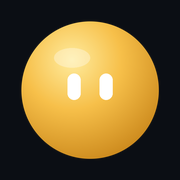
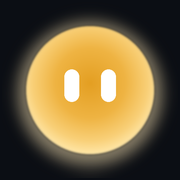
Mascotte : rendu plat et doux comme le modèle (plus de reflet 3D), halo discret, yeux plus fins
Claude-Session: https://claude.ai/code/session_01AT7rn9QSeKipCGAkHZqtFR

diff --git a/site/index.html b/site/index.html
@@ -71,7 +71,7 @@
   </div>
   <div class="scene">
     <div class="scene-bg"></div>
-    <span class="odin float" id="heroOdin" aria-hidden="true"><svg viewBox="0 0 120 120" xmlns="http://www.w3.org/2000/svg" focusable="false"><defs><radialGradient id="odinBody" cx="38%" cy="30%" r="78%"><stop offset="0" stop-color="#FFEC9E"/><stop offset=".42" stop-color="#F7C04A"/><stop offset="1" stop-color="#C47F14"/></radialGradient><radialGradient id="odinHalo" cx="50%" cy="50%" r="50%"><stop offset=".55" stop-color="#F2B544" stop-opacity=".28"/><stop offset="1" stop-color="#F2B544" stop-opacity="0"/></radialGradient></defs><circle class="halo" cx="60" cy="60" r="60" fill="url(#odinHalo)"/><g class="body"><circle cx="60" cy="60" r="44" fill="url(#odinBody)"/><ellipse cx="45" cy="34" rx="15" ry="8" fill="#fff" opacity=".32"/><g class="eyes"><g class="brow l"><rect class="eye l" x="42" y="47" width="10.5" height="21" rx="5.25" fill="#fff"/></g><g class="brow r"><rect class="eye r" x="67.5" y="47" width="10.5" height="21" rx="5.25" fill="#fff"/></g></g></g></svg></span>
+    <span class="odin float" id="heroOdin" aria-hidden="true"><svg viewBox="0 0 120 120" xmlns="http://www.w3.org/2000/svg" focusable="false"><defs><radialGradient id="odinBody" cx="50%" cy="46%" r="54%"><stop offset="0" stop-color="#E19B1F"/><stop offset=".5" stop-color="#EDB03D"/><stop offset=".82" stop-color="#F8CC70"/><stop offset="1" stop-color="#FFE3A0"/></radialGradient><radialGradient id="odinHalo" cx="50%" cy="50%" r="50%"><stop offset=".8" stop-color="#FFE9B8" stop-opacity=".3"/><stop offset=".92" stop-color="#FFE9B8" stop-opacity=".1"/><stop offset="1" stop-color="#FFE9B8" stop-opacity="0"/></radialGradient><filter id="odinSoft" x="-10%" y="-10%" width="120%" height="120%"><feGaussianBlur stdDeviation=".8"/></filter></defs><circle class="halo" cx="61" cy="62" r="52" fill="url(#odinHalo)"/><g class="body"><circle cx="60" cy="60" r="44" fill="url(#odinBody)" filter="url(#odinSoft)"/><g class="eyes"><g class="brow l"><rect class="eye l" x="43" y="45" width="9" height="22" rx="4.5" fill="#fff"/></g><g class="brow r"><rect class="eye r" x="68" y="45" width="9" height="22" rx="4.5" fill="#fff"/></g></g></g></svg></span>
     <div class="term" role="img" aria-label="Démonstration : Odin lit une facture reçue sur Telegram, la range, crée une ligne dans un tableur et programme un rappel, en signalant ce qu'il a décidé seul.">
       <div class="term-bar"><i></i><i></i><i></i><span>odin · discussion</span></div>
       <div class="term-body" id="term">
@@ -167,7 +167,7 @@
 </div></section>
 
 <section class="wrap cta-band" id="demarrer">
-  <span class="odin float rv" aria-hidden="true"><svg viewBox="0 0 120 120" xmlns="http://www.w3.org/2000/svg" focusable="false"><defs><radialGradient id="odinBody" cx="38%" cy="30%" r="78%"><stop offset="0" stop-color="#FFEC9E"/><stop offset=".42" stop-color="#F7C04A"/><stop offset="1" stop-color="#C47F14"/></radialGradient><radialGradient id="odinHalo" cx="50%" cy="50%" r="50%"><stop offset=".55" stop-color="#F2B544" stop-opacity=".28"/><stop offset="1" stop-color="#F2B544" stop-opacity="0"/></radialGradient></defs><circle class="halo" cx="60" cy="60" r="60" fill="url(#odinHalo)"/><g class="body"><circle cx="60" cy="60" r="44" fill="url(#odinBody)"/><ellipse cx="45" cy="34" rx="15" ry="8" fill="#fff" opacity=".32"/><g class="eyes"><g class="brow l"><rect class="eye l" x="42" y="47" width="10.5" height="21" rx="5.25" fill="#fff"/></g><g class="brow r"><rect class="eye r" x="67.5" y="47" width="10.5" height="21" rx="5.25" fill="#fff"/></g></g></g></svg></span>
+  <span class="odin float rv" aria-hidden="true"><svg viewBox="0 0 120 120" xmlns="http://www.w3.org/2000/svg" focusable="false"><defs><radialGradient id="odinBody" cx="50%" cy="46%" r="54%"><stop offset="0" stop-color="#E19B1F"/><stop offset=".5" stop-color="#EDB03D"/><stop offset=".82" stop-color="#F8CC70"/><stop offset="1" stop-color="#FFE3A0"/></radialGradient><radialGradient id="odinHalo" cx="50%" cy="50%" r="50%"><stop offset=".8" stop-color="#FFE9B8" stop-opacity=".3"/><stop offset=".92" stop-color="#FFE9B8" stop-opacity=".1"/><stop offset="1" stop-color="#FFE9B8" stop-opacity="0"/></radialGradient><filter id="odinSoft" x="-10%" y="-10%" width="120%" height="120%"><feGaussianBlur stdDeviation=".8"/></filter></defs><circle class="halo" cx="61" cy="62" r="52" fill="url(#odinHalo)"/><g class="body"><circle cx="60" cy="60" r="44" fill="url(#odinBody)" filter="url(#odinSoft)"/><g class="eyes"><g class="brow l"><rect class="eye l" x="43" y="45" width="9" height="22" rx="4.5" fill="#fff"/></g><g class="brow r"><rect class="eye r" x="68" y="45" width="9" height="22" rx="4.5" fill="#fff"/></g></g></g></svg></span>
   <p class="eyebrow">Démarrer</p>
   <h2>Cinq minutes. Une commande, trois questions, et Odin est à toi.</h2>
   <p class="lead">Gratuit, open source, sans inscription. Fonctionne 100 % hors ligne avec un modèle installé sur ta machine.</p>

diff --git a/site/guide.html b/site/guide.html
@@ -59,7 +59,7 @@
 
 <main id="contenu">
 <div class="wrap page-head">
-  <span class="odin" aria-hidden="true"><svg viewBox="0 0 120 120" xmlns="http://www.w3.org/2000/svg" focusable="false"><defs><radialGradient id="odinBody" cx="38%" cy="30%" r="78%"><stop offset="0" stop-color="#FFEC9E"/><stop offset=".42" stop-color="#F7C04A"/><stop offset="1" stop-color="#C47F14"/></radialGradient><radialGradient id="odinHalo" cx="50%" cy="50%" r="50%"><stop offset=".55" stop-color="#F2B544" stop-opacity=".28"/><stop offset="1" stop-color="#F2B544" stop-opacity="0"/></radialGradient></defs><circle class="halo" cx="60" cy="60" r="60" fill="url(#odinHalo)"/><g class="body"><circle cx="60" cy="60" r="44" fill="url(#odinBody)"/><ellipse cx="45" cy="34" rx="15" ry="8" fill="#fff" opacity=".32"/><g class="eyes"><g class="brow l"><rect class="eye l" x="42" y="47" width="10.5" height="21" rx="5.25" fill="#fff"/></g><g class="brow r"><rect class="eye r" x="67.5" y="47" width="10.5" height="21" rx="5.25" fill="#fff"/></g></g></g></svg></span>
+  <span class="odin" aria-hidden="true"><svg viewBox="0 0 120 120" xmlns="http://www.w3.org/2000/svg" focusable="false"><defs><radialGradient id="odinBody" cx="50%" cy="46%" r="54%"><stop offset="0" stop-color="#E19B1F"/><stop offset=".5" stop-color="#EDB03D"/><stop offset=".82" stop-color="#F8CC70"/><stop offset="1" stop-color="#FFE3A0"/></radialGradient><radialGradient id="odinHalo" cx="50%" cy="50%" r="50%"><stop offset=".8" stop-color="#FFE9B8" stop-opacity=".3"/><stop offset=".92" stop-color="#FFE9B8" stop-opacity=".1"/><stop offset="1" stop-color="#FFE9B8" stop-opacity="0"/></radialGradient><filter id="odinSoft" x="-10%" y="-10%" width="120%" height="120%"><feGaussianBlur stdDeviation=".8"/></filter></defs><circle class="halo" cx="61" cy="62" r="52" fill="url(#odinHalo)"/><g class="body"><circle cx="60" cy="60" r="44" fill="url(#odinBody)" filter="url(#odinSoft)"/><g class="eyes"><g class="brow l"><rect class="eye l" x="43" y="45" width="9" height="22" rx="4.5" fill="#fff"/></g><g class="brow r"><rect class="eye r" x="68" y="45" width="9" height="22" rx="4.5" fill="#fff"/></g></g></g></svg></span>
   <p class="eyebrow">Guide d'utilisation</p>
   <h1>Tout ce qu'il faut savoir pour se servir d'Odin.</h1>
   <nav class="toc" aria-label="Sommaire"><a href="#reglages">Réglages</a><a href="#quotidien">Au quotidien</a><a href="#telegram">Telegram</a><a href="#voix">Voix</a><a href="#documents">Documents</a><a href="#taches">Tâches et rappels</a><a href="#memoire">Mémoire et compétences</a><a href="#reseau">Réseau</a><a href="#commandes">Commandes</a><a href="#depannage">Dépannage</a></nav>

diff --git a/src/web/ui.html b/src/web/ui.html
@@ -173,7 +173,7 @@ ol.steps{margin:0;padding-left:20px;color:var(--muted);font-size:14px}
 </head>
 <body>
 <div id="login" class="login" hidden>
-  <span class="odin" aria-hidden="true" style="width:72px;height:72px;margin:0 auto 6px;display:block"><svg viewBox="0 0 120 120" xmlns="http://www.w3.org/2000/svg" focusable="false"><defs><radialGradient id="odinBody" cx="38%" cy="30%" r="78%"><stop offset="0" stop-color="#FFEC9E"/><stop offset=".42" stop-color="#F7C04A"/><stop offset="1" stop-color="#C47F14"/></radialGradient><radialGradient id="odinHalo" cx="50%" cy="50%" r="50%"><stop offset=".55" stop-color="#F2B544" stop-opacity=".28"/><stop offset="1" stop-color="#F2B544" stop-opacity="0"/></radialGradient></defs><circle class="halo" cx="60" cy="60" r="60" fill="url(#odinHalo)"/><g class="body"><circle cx="60" cy="60" r="44" fill="url(#odinBody)"/><ellipse cx="45" cy="34" rx="15" ry="8" fill="#fff" opacity=".32"/><g class="eyes"><g class="brow l"><rect class="eye l" x="42" y="47" width="10.5" height="21" rx="5.25" fill="#fff"/></g><g class="brow r"><rect class="eye r" x="67.5" y="47" width="10.5" height="21" rx="5.25" fill="#fff"/></g></g></g></svg></span>
+  <span class="odin" aria-hidden="true" style="width:72px;height:72px;margin:0 auto 6px;display:block"><svg viewBox="0 0 120 120" xmlns="http://www.w3.org/2000/svg" focusable="false"><defs><radialGradient id="odinBody" cx="50%" cy="46%" r="54%"><stop offset="0" stop-color="#E19B1F"/><stop offset=".5" stop-color="#EDB03D"/><stop offset=".82" stop-color="#F8CC70"/><stop offset="1" stop-color="#FFE3A0"/></radialGradient><radialGradient id="odinHalo" cx="50%" cy="50%" r="50%"><stop offset=".8" stop-color="#FFE9B8" stop-opacity=".3"/><stop offset=".92" stop-color="#FFE9B8" stop-opacity=".1"/><stop offset="1" stop-color="#FFE9B8" stop-opacity="0"/></radialGradient><filter id="odinSoft" x="-10%" y="-10%" width="120%" height="120%"><feGaussianBlur stdDeviation=".8"/></filter></defs><circle class="halo" cx="61" cy="62" r="52" fill="url(#odinHalo)"/><g class="body"><circle cx="60" cy="60" r="44" fill="url(#odinBody)" filter="url(#odinSoft)"/><g class="eyes"><g class="brow l"><rect class="eye l" x="43" y="45" width="9" height="22" rx="4.5" fill="#fff"/></g><g class="brow r"><rect class="eye r" x="68" y="45" width="9" height="22" rx="4.5" fill="#fff"/></g></g></g></svg></span>
   <div class="brand"><span class="rune" aria-hidden="true">ᛟ</span>ODIN</div>
   <p class="sub">Colle le jeton affiché par « odin web » (ou contenu du fichier ~/.odin/web-token).</p>
   <form id="loginForm" method="get" action="/" style="display:flex;flex-direction:column;gap:10px">

diff --git a/site/autonomie.html b/site/autonomie.html
@@ -59,7 +59,7 @@
 
 <main id="contenu">
 <div class="wrap page-head">
-  <span class="odin" aria-hidden="true"><svg viewBox="0 0 120 120" xmlns="http://www.w3.org/2000/svg" focusable="false"><defs><radialGradient id="odinBody" cx="38%" cy="30%" r="78%"><stop offset="0" stop-color="#FFEC9E"/><stop offset=".42" stop-color="#F7C04A"/><stop offset="1" stop-color="#C47F14"/></radialGradient><radialGradient id="odinHalo" cx="50%" cy="50%" r="50%"><stop offset=".55" stop-color="#F2B544" stop-opacity=".28"/><stop offset="1" stop-color="#F2B544" stop-opacity="0"/></radialGradient></defs><circle class="halo" cx="60" cy="60" r="60" fill="url(#odinHalo)"/><g class="body"><circle cx="60" cy="60" r="44" fill="url(#odinBody)"/><ellipse cx="45" cy="34" rx="15" ry="8" fill="#fff" opacity=".32"/><g class="eyes"><g class="brow l"><rect class="eye l" x="42" y="47" width="10.5" height="21" rx="5.25" fill="#fff"/></g><g class="brow r"><rect class="eye r" x="67.5" y="47" width="10.5" height="21" rx="5.25" fill="#fff"/></g></g></g></svg></span>
+  <span class="odin" aria-hidden="true"><svg viewBox="0 0 120 120" xmlns="http://www.w3.org/2000/svg" focusable="false"><defs><radialGradient id="odinBody" cx="50%" cy="46%" r="54%"><stop offset="0" stop-color="#E19B1F"/><stop offset=".5" stop-color="#EDB03D"/><stop offset=".82" stop-color="#F8CC70"/><stop offset="1" stop-color="#FFE3A0"/></radialGradient><radialGradient id="odinHalo" cx="50%" cy="50%" r="50%"><stop offset=".8" stop-color="#FFE9B8" stop-opacity=".3"/><stop offset=".92" stop-color="#FFE9B8" stop-opacity=".1"/><stop offset="1" stop-color="#FFE9B8" stop-opacity="0"/></radialGradient><filter id="odinSoft" x="-10%" y="-10%" width="120%" height="120%"><feGaussianBlur stdDeviation=".8"/></filter></defs><circle class="halo" cx="61" cy="62" r="52" fill="url(#odinHalo)"/><g class="body"><circle cx="60" cy="60" r="44" fill="url(#odinBody)" filter="url(#odinSoft)"/><g class="eyes"><g class="brow l"><rect class="eye l" x="43" y="45" width="9" height="22" rx="4.5" fill="#fff"/></g><g class="brow r"><rect class="eye r" x="68" y="45" width="9" height="22" rx="4.5" fill="#fff"/></g></g></g></svg></span>
   <p class="eyebrow">Autonomie</p>
   <h1>Quatre niveaux de confiance, une règle écrite dans le code.</h1>
   <p class="lead">Avant chaque action qui écrit, exécute ou envoie, Mímir, le module de décision d'Odin, répond à sept questions simples. Une table de vérité en déduit une gravité. Ensuite, c'est ton niveau d'autonomie qui décide si Odin agit, te demande, ou refuse.</p>

diff --git a/site/confidentialite.html b/site/confidentialite.html
@@ -59,7 +59,7 @@
 
 <main id="contenu">
 <div class="wrap page-head narrow">
-  <span class="odin" aria-hidden="true"><svg viewBox="0 0 120 120" xmlns="http://www.w3.org/2000/svg" focusable="false"><defs><radialGradient id="odinBody" cx="38%" cy="30%" r="78%"><stop offset="0" stop-color="#FFEC9E"/><stop offset=".42" stop-color="#F7C04A"/><stop offset="1" stop-color="#C47F14"/></radialGradient><radialGradient id="odinHalo" cx="50%" cy="50%" r="50%"><stop offset=".55" stop-color="#F2B544" stop-opacity=".28"/><stop offset="1" stop-color="#F2B544" stop-opacity="0"/></radialGradient></defs><circle class="halo" cx="60" cy="60" r="60" fill="url(#odinHalo)"/><g class="body"><circle cx="60" cy="60" r="44" fill="url(#odinBody)"/><ellipse cx="45" cy="34" rx="15" ry="8" fill="#fff" opacity=".32"/><g class="eyes"><g class="brow l"><rect class="eye l" x="42" y="47" width="10.5" height="21" rx="5.25" fill="#fff"/></g><g class="brow r"><rect class="eye r" x="67.5" y="47" width="10.5" height="21" rx="5.25" fill="#fff"/></g></g></g></svg></span>
+  <span class="odin" aria-hidden="true"><svg viewBox="0 0 120 120" xmlns="http://www.w3.org/2000/svg" focusable="false"><defs><radialGradient id="odinBody" cx="50%" cy="46%" r="54%"><stop offset="0" stop-color="#E19B1F"/><stop offset=".5" stop-color="#EDB03D"/><stop offset=".82" stop-color="#F8CC70"/><stop offset="1" stop-color="#FFE3A0"/></radialGradient><radialGradient id="odinHalo" cx="50%" cy="50%" r="50%"><stop offset=".8" stop-color="#FFE9B8" stop-opacity=".3"/><stop offset=".92" stop-color="#FFE9B8" stop-opacity=".1"/><stop offset="1" stop-color="#FFE9B8" stop-opacity="0"/></radialGradient><filter id="odinSoft" x="-10%" y="-10%" width="120%" height="120%"><feGaussianBlur stdDeviation=".8"/></filter></defs><circle class="halo" cx="61" cy="62" r="52" fill="url(#odinHalo)"/><g class="body"><circle cx="60" cy="60" r="44" fill="url(#odinBody)" filter="url(#odinSoft)"/><g class="eyes"><g class="brow l"><rect class="eye l" x="43" y="45" width="9" height="22" rx="4.5" fill="#fff"/></g><g class="brow r"><rect class="eye r" x="68" y="45" width="9" height="22" rx="4.5" fill="#fff"/></g></g></g></svg></span>
   <p class="eyebrow">Confidentialité · RGPD</p>
   <h1>Ce site ne collecte rien. Le logiciel, lui, travaille chez toi.</h1>
   <p class="lead">Cette page explique, en langage clair, ce que font le site et le logiciel Odin de tes données, conformément au Règlement général sur la protection des données (RGPD, règlement UE 2016/679) et à la loi Informatique et Libertés.</p>

diff --git a/site/securite.html b/site/securite.html
@@ -59,7 +59,7 @@
 
 <main id="contenu">
 <div class="wrap page-head">
-  <span class="odin" aria-hidden="true"><svg viewBox="0 0 120 120" xmlns="http://www.w3.org/2000/svg" focusable="false"><defs><radialGradient id="odinBody" cx="38%" cy="30%" r="78%"><stop offset="0" stop-color="#FFEC9E"/><stop offset=".42" stop-color="#F7C04A"/><stop offset="1" stop-color="#C47F14"/></radialGradient><radialGradient id="odinHalo" cx="50%" cy="50%" r="50%"><stop offset=".55" stop-color="#F2B544" stop-opacity=".28"/><stop offset="1" stop-color="#F2B544" stop-opacity="0"/></radialGradient></defs><circle class="halo" cx="60" cy="60" r="60" fill="url(#odinHalo)"/><g class="body"><circle cx="60" cy="60" r="44" fill="url(#odinBody)"/><ellipse cx="45" cy="34" rx="15" ry="8" fill="#fff" opacity=".32"/><g class="eyes"><g class="brow l"><rect class="eye l" x="42" y="47" width="10.5" height="21" rx="5.25" fill="#fff"/></g><g class="brow r"><rect class="eye r" x="67.5" y="47" width="10.5" height="21" rx="5.25" fill="#fff"/></g></g></g></svg></span>
+  <span class="odin" aria-hidden="true"><svg viewBox="0 0 120 120" xmlns="http://www.w3.org/2000/svg" focusable="false"><defs><radialGradient id="odinBody" cx="50%" cy="46%" r="54%"><stop offset="0" stop-color="#E19B1F"/><stop offset=".5" stop-color="#EDB03D"/><stop offset=".82" stop-color="#F8CC70"/><stop offset="1" stop-color="#FFE3A0"/></radialGradient><radialGradient id="odinHalo" cx="50%" cy="50%" r="50%"><stop offset=".8" stop-color="#FFE9B8" stop-opacity=".3"/><stop offset=".92" stop-color="#FFE9B8" stop-opacity=".1"/><stop offset="1" stop-color="#FFE9B8" stop-opacity="0"/></radialGradient><filter id="odinSoft" x="-10%" y="-10%" width="120%" height="120%"><feGaussianBlur stdDeviation=".8"/></filter></defs><circle class="halo" cx="61" cy="62" r="52" fill="url(#odinHalo)"/><g class="body"><circle cx="60" cy="60" r="44" fill="url(#odinBody)" filter="url(#odinSoft)"/><g class="eyes"><g class="brow l"><rect class="eye l" x="43" y="45" width="9" height="22" rx="4.5" fill="#fff"/></g><g class="brow r"><rect class="eye r" x="68" y="45" width="9" height="22" rx="4.5" fill="#fff"/></g></g></g></svg></span>
   <p class="eyebrow">Sécurité</p>
   <h1>Ce qui est garanti par le code, pas par un prompt.</h1>
   <p class="lead">Un agent qui agit sur ta machine doit être sûr par construction. Voici ce qu'Odin garantit, et comment chaque garantie est testée à chaque modification, sur macOS, Linux et Windows.</p>

diff --git a/site/installation.html b/site/installation.html
@@ -59,7 +59,7 @@
 
 <main id="contenu">
 <div class="wrap page-head">
-  <span class="odin" aria-hidden="true"><svg viewBox="0 0 120 120" xmlns="http://www.w3.org/2000/svg" focusable="false"><defs><radialGradient id="odinBody" cx="38%" cy="30%" r="78%"><stop offset="0" stop-color="#FFEC9E"/><stop offset=".42" stop-color="#F7C04A"/><stop offset="1" stop-color="#C47F14"/></radialGradient><radialGradient id="odinHalo" cx="50%" cy="50%" r="50%"><stop offset=".55" stop-color="#F2B544" stop-opacity=".28"/><stop offset="1" stop-color="#F2B544" stop-opacity="0"/></radialGradient></defs><circle class="halo" cx="60" cy="60" r="60" fill="url(#odinHalo)"/><g class="body"><circle cx="60" cy="60" r="44" fill="url(#odinBody)"/><ellipse cx="45" cy="34" rx="15" ry="8" fill="#fff" opacity=".32"/><g class="eyes"><g class="brow l"><rect class="eye l" x="42" y="47" width="10.5" height="21" rx="5.25" fill="#fff"/></g><g class="brow r"><rect class="eye r" x="67.5" y="47" width="10.5" height="21" rx="5.25" fill="#fff"/></g></g></g></svg></span>
+  <span class="odin" aria-hidden="true"><svg viewBox="0 0 120 120" xmlns="http://www.w3.org/2000/svg" focusable="false"><defs><radialGradient id="odinBody" cx="50%" cy="46%" r="54%"><stop offset="0" stop-color="#E19B1F"/><stop offset=".5" stop-color="#EDB03D"/><stop offset=".82" stop-color="#F8CC70"/><stop offset="1" stop-color="#FFE3A0"/></radialGradient><radialGradient id="odinHalo" cx="50%" cy="50%" r="50%"><stop offset=".8" stop-color="#FFE9B8" stop-opacity=".3"/><stop offset=".92" stop-color="#FFE9B8" stop-opacity=".1"/><stop offset="1" stop-color="#FFE9B8" stop-opacity="0"/></radialGradient><filter id="odinSoft" x="-10%" y="-10%" width="120%" height="120%"><feGaussianBlur stdDeviation=".8"/></filter></defs><circle class="halo" cx="61" cy="62" r="52" fill="url(#odinHalo)"/><g class="body"><circle cx="60" cy="60" r="44" fill="url(#odinBody)" filter="url(#odinSoft)"/><g class="eyes"><g class="brow l"><rect class="eye l" x="43" y="45" width="9" height="22" rx="4.5" fill="#fff"/></g><g class="brow r"><rect class="eye r" x="68" y="45" width="9" height="22" rx="4.5" fill="#fff"/></g></g></g></svg></span>
   <p class="eyebrow">Installation</p>
   <h1>Une commande, puis tout se règle dans le navigateur.</h1>
   <p class="lead">L'installateur s'occupe de Node.js s'il manque, installe Odin, te pose trois questions, puis ouvre l'interface web sur l'onglet Réglages. Cinq minutes.</p>

diff --git a/site/fonctionnalites.html b/site/fonctionnalites.html
@@ -59,7 +59,7 @@
 
 <main id="contenu">
 <div class="wrap page-head">
-  <span class="odin" aria-hidden="true"><svg viewBox="0 0 120 120" xmlns="http://www.w3.org/2000/svg" focusable="false"><defs><radialGradient id="odinBody" cx="38%" cy="30%" r="78%"><stop offset="0" stop-color="#FFEC9E"/><stop offset=".42" stop-color="#F7C04A"/><stop offset="1" stop-color="#C47F14"/></radialGradient><radialGradient id="odinHalo" cx="50%" cy="50%" r="50%"><stop offset=".55" stop-color="#F2B544" stop-opacity=".28"/><stop offset="1" stop-color="#F2B544" stop-opacity="0"/></radialGradient></defs><circle class="halo" cx="60" cy="60" r="60" fill="url(#odinHalo)"/><g class="body"><circle cx="60" cy="60" r="44" fill="url(#odinBody)"/><ellipse cx="45" cy="34" rx="15" ry="8" fill="#fff" opacity=".32"/><g class="eyes"><g class="brow l"><rect class="eye l" x="42" y="47" width="10.5" height="21" rx="5.25" fill="#fff"/></g><g class="brow r"><rect class="eye r" x="67.5" y="47" width="10.5" height="21" rx="5.25" fill="#fff"/></g></g></g></svg></span>
+  <span class="odin" aria-hidden="true"><svg viewBox="0 0 120 120" xmlns="http://www.w3.org/2000/svg" focusable="false"><defs><radialGradient id="odinBody" cx="50%" cy="46%" r="54%"><stop offset="0" stop-color="#E19B1F"/><stop offset=".5" stop-color="#EDB03D"/><stop offset=".82" stop-color="#F8CC70"/><stop offset="1" stop-color="#FFE3A0"/></radialGradient><radialGradient id="odinHalo" cx="50%" cy="50%" r="50%"><stop offset=".8" stop-color="#FFE9B8" stop-opacity=".3"/><stop offset=".92" stop-color="#FFE9B8" stop-opacity=".1"/><stop offset="1" stop-color="#FFE9B8" stop-opacity="0"/></radialGradient><filter id="odinSoft" x="-10%" y="-10%" width="120%" height="120%"><feGaussianBlur stdDeviation=".8"/></filter></defs><circle class="halo" cx="61" cy="62" r="52" fill="url(#odinHalo)"/><g class="body"><circle cx="60" cy="60" r="44" fill="url(#odinBody)" filter="url(#odinSoft)"/><g class="eyes"><g class="brow l"><rect class="eye l" x="43" y="45" width="9" height="22" rx="4.5" fill="#fff"/></g><g class="brow r"><rect class="eye r" x="68" y="45" width="9" height="22" rx="4.5" fill="#fff"/></g></g></g></svg></span>
   <p class="eyebrow">Fonctionnalités</p>
   <h1>Tout ce qu'Odin sait faire.</h1>
   <p class="lead">Des mains, des yeux, une voix, une mémoire, et un gardien. Chaque capacité ci-dessous est livrée, testée, et se règle depuis l'interface web.</p>

diff --git a/site/404.html b/site/404.html
@@ -59,7 +59,7 @@
 
 <main id="contenu">
 <section class="wrap cta-band" style="min-height:50vh;justify-content:center">
-  <span class="odin thinking" aria-hidden="true"><svg viewBox="0 0 120 120" xmlns="http://www.w3.org/2000/svg" focusable="false"><defs><radialGradient id="odinBody" cx="38%" cy="30%" r="78%"><stop offset="0" stop-color="#FFEC9E"/><stop offset=".42" stop-color="#F7C04A"/><stop offset="1" stop-color="#C47F14"/></radialGradient><radialGradient id="odinHalo" cx="50%" cy="50%" r="50%"><stop offset=".55" stop-color="#F2B544" stop-opacity=".28"/><stop offset="1" stop-color="#F2B544" stop-opacity="0"/></radialGradient></defs><circle class="halo" cx="60" cy="60" r="60" fill="url(#odinHalo)"/><g class="body"><circle cx="60" cy="60" r="44" fill="url(#odinBody)"/><ellipse cx="45" cy="34" rx="15" ry="8" fill="#fff" opacity=".32"/><g class="eyes"><g class="brow l"><rect class="eye l" x="42" y="47" width="10.5" height="21" rx="5.25" fill="#fff"/></g><g class="brow r"><rect class="eye r" x="67.5" y="47" width="10.5" height="21" rx="5.25" fill="#fff"/></g></g></g></svg></span>
+  <span class="odin thinking" aria-hidden="true"><svg viewBox="0 0 120 120" xmlns="http://www.w3.org/2000/svg" focusable="false"><defs><radialGradient id="odinBody" cx="50%" cy="46%" r="54%"><stop offset="0" stop-color="#E19B1F"/><stop offset=".5" stop-color="#EDB03D"/><stop offset=".82" stop-color="#F8CC70"/><stop offset="1" stop-color="#FFE3A0"/></radialGradient><radialGradient id="odinHalo" cx="50%" cy="50%" r="50%"><stop offset=".8" stop-color="#FFE9B8" stop-opacity=".3"/><stop offset=".92" stop-color="#FFE9B8" stop-opacity=".1"/><stop offset="1" stop-color="#FFE9B8" stop-opacity="0"/></radialGradient><filter id="odinSoft" x="-10%" y="-10%" width="120%" height="120%"><feGaussianBlur stdDeviation=".8"/></filter></defs><circle class="halo" cx="61" cy="62" r="52" fill="url(#odinHalo)"/><g class="body"><circle cx="60" cy="60" r="44" fill="url(#odinBody)" filter="url(#odinSoft)"/><g class="eyes"><g class="brow l"><rect class="eye l" x="43" y="45" width="9" height="22" rx="4.5" fill="#fff"/></g><g class="brow r"><rect class="eye r" x="68" y="45" width="9" height="22" rx="4.5" fill="#fff"/></g></g></g></svg></span>
   <p class="eyebrow">Erreur 404</p>
   <h1>Même Odin ne trouve pas cette page.</h1>
   <p class="lead">Elle n'existe pas, ou plus. Le reste du site, lui, est bien là.</p>

diff --git a/site/mentions-legales.html b/site/mentions-legales.html
@@ -59,7 +59,7 @@
 
 <main id="contenu">
 <div class="wrap page-head narrow">
-  <span class="odin" aria-hidden="true"><svg viewBox="0 0 120 120" xmlns="http://www.w3.org/2000/svg" focusable="false"><defs><radialGradient id="odinBody" cx="38%" cy="30%" r="78%"><stop offset="0" stop-color="#FFEC9E"/><stop offset=".42" stop-color="#F7C04A"/><stop offset="1" stop-color="#C47F14"/></radialGradient><radialGradient id="odinHalo" cx="50%" cy="50%" r="50%"><stop offset=".55" stop-color="#F2B544" stop-opacity=".28"/><stop offset="1" stop-color="#F2B544" stop-opacity="0"/></radialGradient></defs><circle class="halo" cx="60" cy="60" r="60" fill="url(#odinHalo)"/><g class="body"><circle cx="60" cy="60" r="44" fill="url(#odinBody)"/><ellipse cx="45" cy="34" rx="15" ry="8" fill="#fff" opacity=".32"/><g class="eyes"><g class="brow l"><rect class="eye l" x="42" y="47" width="10.5" height="21" rx="5.25" fill="#fff"/></g><g class="brow r"><rect class="eye r" x="67.5" y="47" width="10.5" height="21" rx="5.25" fill="#fff"/></g></g></g></svg></span>
+  <span class="odin" aria-hidden="true"><svg viewBox="0 0 120 120" xmlns="http://www.w3.org/2000/svg" focusable="false"><defs><radialGradient id="odinBody" cx="50%" cy="46%" r="54%"><stop offset="0" stop-color="#E19B1F"/><stop offset=".5" stop-color="#EDB03D"/><stop offset=".82" stop-color="#F8CC70"/><stop offset="1" stop-color="#FFE3A0"/></radialGradient><radialGradient id="odinHalo" cx="50%" cy="50%" r="50%"><stop offset=".8" stop-color="#FFE9B8" stop-opacity=".3"/><stop offset=".92" stop-color="#FFE9B8" stop-opacity=".1"/><stop offset="1" stop-color="#FFE9B8" stop-opacity="0"/></radialGradient><filter id="odinSoft" x="-10%" y="-10%" width="120%" height="120%"><feGaussianBlur stdDeviation=".8"/></filter></defs><circle class="halo" cx="61" cy="62" r="52" fill="url(#odinHalo)"/><g class="body"><circle cx="60" cy="60" r="44" fill="url(#odinBody)" filter="url(#odinSoft)"/><g class="eyes"><g class="brow l"><rect class="eye l" x="43" y="45" width="9" height="22" rx="4.5" fill="#fff"/></g><g class="brow r"><rect class="eye r" x="68" y="45" width="9" height="22" rx="4.5" fill="#fff"/></g></g></g></svg></span>
   <p class="eyebrow">Mentions légales</p>
   <h1>Mentions légales</h1>
 </div>

diff --git a/site/faq.html b/site/faq.html
@@ -59,7 +59,7 @@
 
 <main id="contenu">
 <div class="wrap page-head narrow">
-  <span class="odin" aria-hidden="true"><svg viewBox="0 0 120 120" xmlns="http://www.w3.org/2000/svg" focusable="false"><defs><radialGradient id="odinBody" cx="38%" cy="30%" r="78%"><stop offset="0" stop-color="#FFEC9E"/><stop offset=".42" stop-color="#F7C04A"/><stop offset="1" stop-color="#C47F14"/></radialGradient><radialGradient id="odinHalo" cx="50%" cy="50%" r="50%"><stop offset=".55" stop-color="#F2B544" stop-opacity=".28"/><stop offset="1" stop-color="#F2B544" stop-opacity="0"/></radialGradient></defs><circle class="halo" cx="60" cy="60" r="60" fill="url(#odinHalo)"/><g class="body"><circle cx="60" cy="60" r="44" fill="url(#odinBody)"/><ellipse cx="45" cy="34" rx="15" ry="8" fill="#fff" opacity=".32"/><g class="eyes"><g class="brow l"><rect class="eye l" x="42" y="47" width="10.5" height="21" rx="5.25" fill="#fff"/></g><g class="brow r"><rect class="eye r" x="67.5" y="47" width="10.5" height="21" rx="5.25" fill="#fff"/></g></g></g></svg></span>
+  <span class="odin" aria-hidden="true"><svg viewBox="0 0 120 120" xmlns="http://www.w3.org/2000/svg" focusable="false"><defs><radialGradient id="odinBody" cx="50%" cy="46%" r="54%"><stop offset="0" stop-color="#E19B1F"/><stop offset=".5" stop-color="#EDB03D"/><stop offset=".82" stop-color="#F8CC70"/><stop offset="1" stop-color="#FFE3A0"/></radialGradient><radialGradient id="odinHalo" cx="50%" cy="50%" r="50%"><stop offset=".8" stop-color="#FFE9B8" stop-opacity=".3"/><stop offset=".92" stop-color="#FFE9B8" stop-opacity=".1"/><stop offset="1" stop-color="#FFE9B8" stop-opacity="0"/></radialGradient><filter id="odinSoft" x="-10%" y="-10%" width="120%" height="120%"><feGaussianBlur stdDeviation=".8"/></filter></defs><circle class="halo" cx="61" cy="62" r="52" fill="url(#odinHalo)"/><g class="body"><circle cx="60" cy="60" r="44" fill="url(#odinBody)" filter="url(#odinSoft)"/><g class="eyes"><g class="brow l"><rect class="eye l" x="43" y="45" width="9" height="22" rx="4.5" fill="#fff"/></g><g class="brow r"><rect class="eye r" x="68" y="45" width="9" height="22" rx="4.5" fill="#fff"/></g></g></g></svg></span>
   <p class="eyebrow">FAQ</p>
   <h1>Questions fréquentes</h1>
 </div>

diff --git a/site/assets/site.css b/site/assets/site.css
@@ -182,7 +182,7 @@ section{padding-block:clamp(56px,9vw,104px)}
 .hero h1{max-width:14ch}
 .hero .cta{display:flex;gap:12px;flex-wrap:wrap}
 .scene{position:relative;display:flex;flex-direction:column;align-items:center;gap:0;min-width:0}
-.scene .odin{width:clamp(130px,16vw,190px);height:clamp(130px,16vw,190px);margin-bottom:-26px;z-index:2;filter:drop-shadow(0 24px 30px rgba(226,169,59,.18))}
+.scene .odin{width:clamp(130px,16vw,190px);height:clamp(130px,16vw,190px);margin-bottom:-26px;z-index:2}
 .scene .term{width:100%}
 .scene-bg{position:absolute;inset:-10% -8%;z-index:0;pointer-events:none;background:radial-gradient(closest-side at 50% 30%,var(--accent-soft),transparent 70%);animation:o-halo 6s ease-in-out infinite}
 .scene>*{position:relative}
